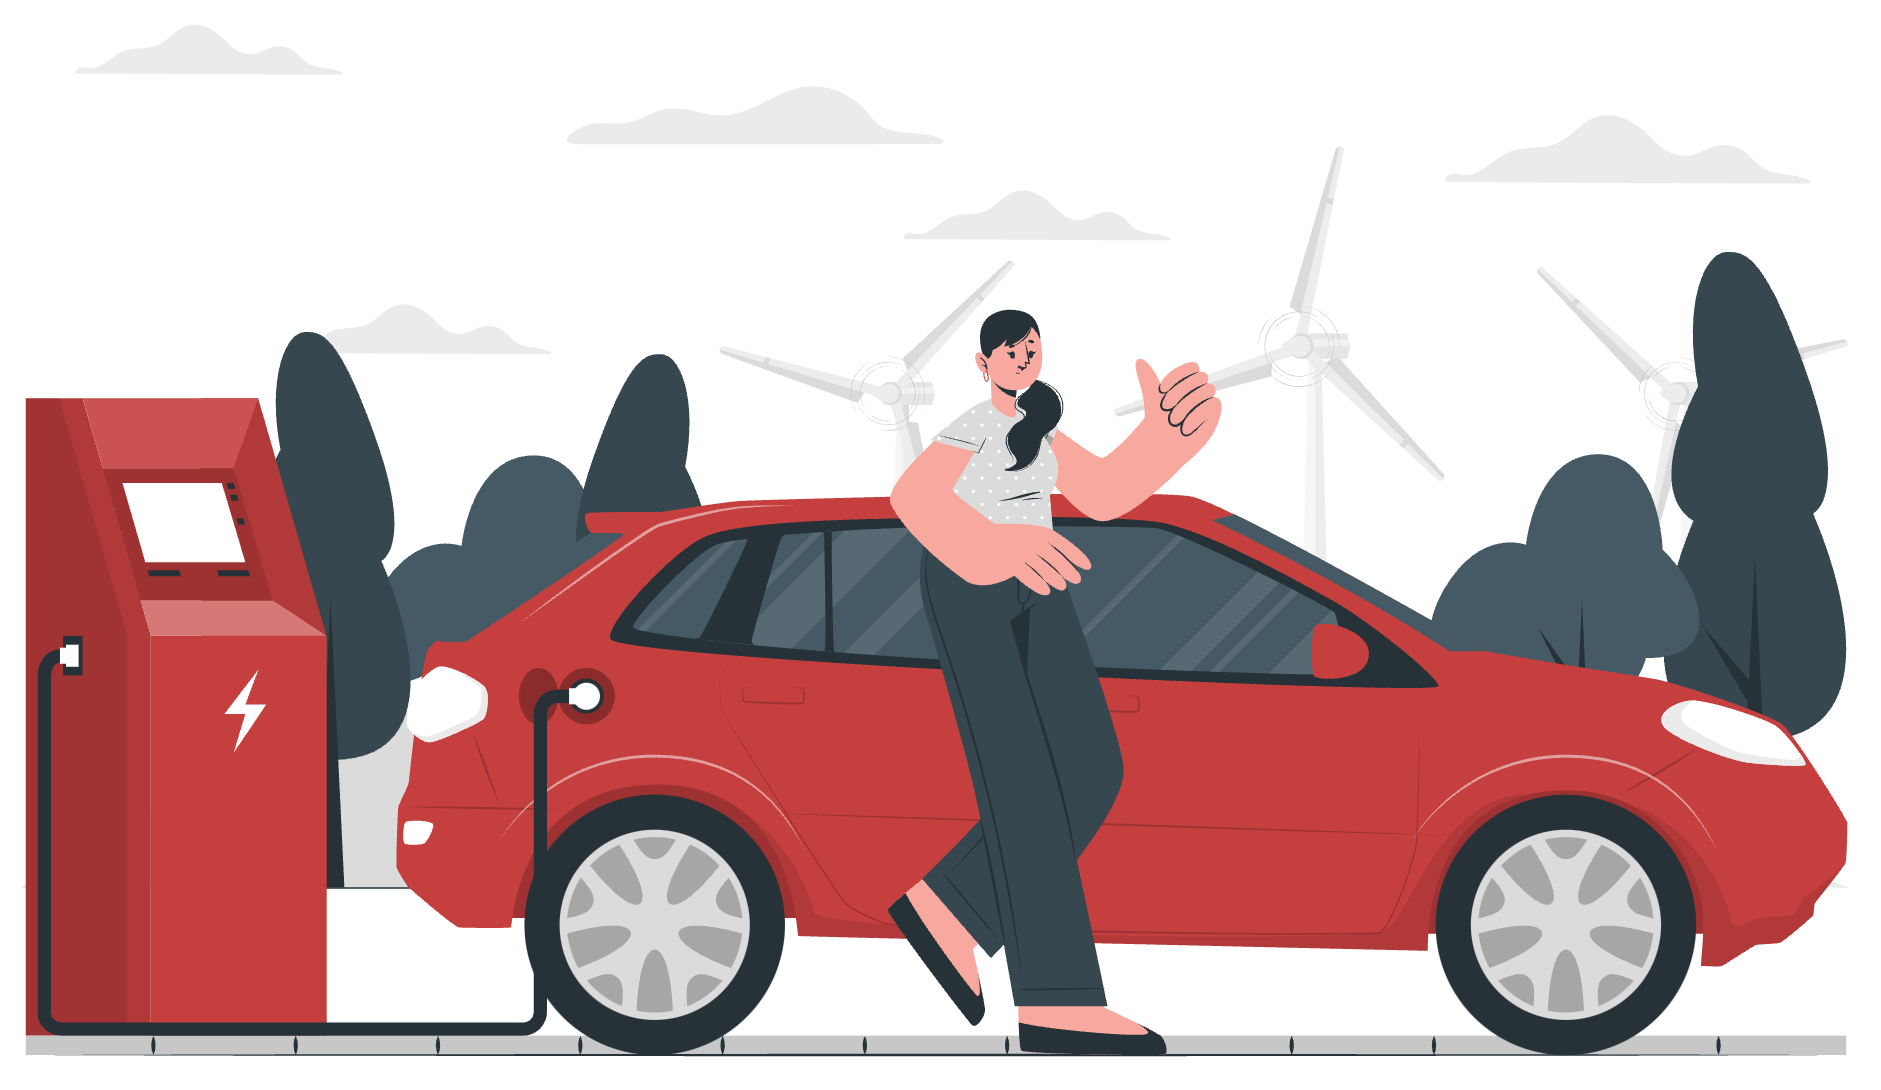
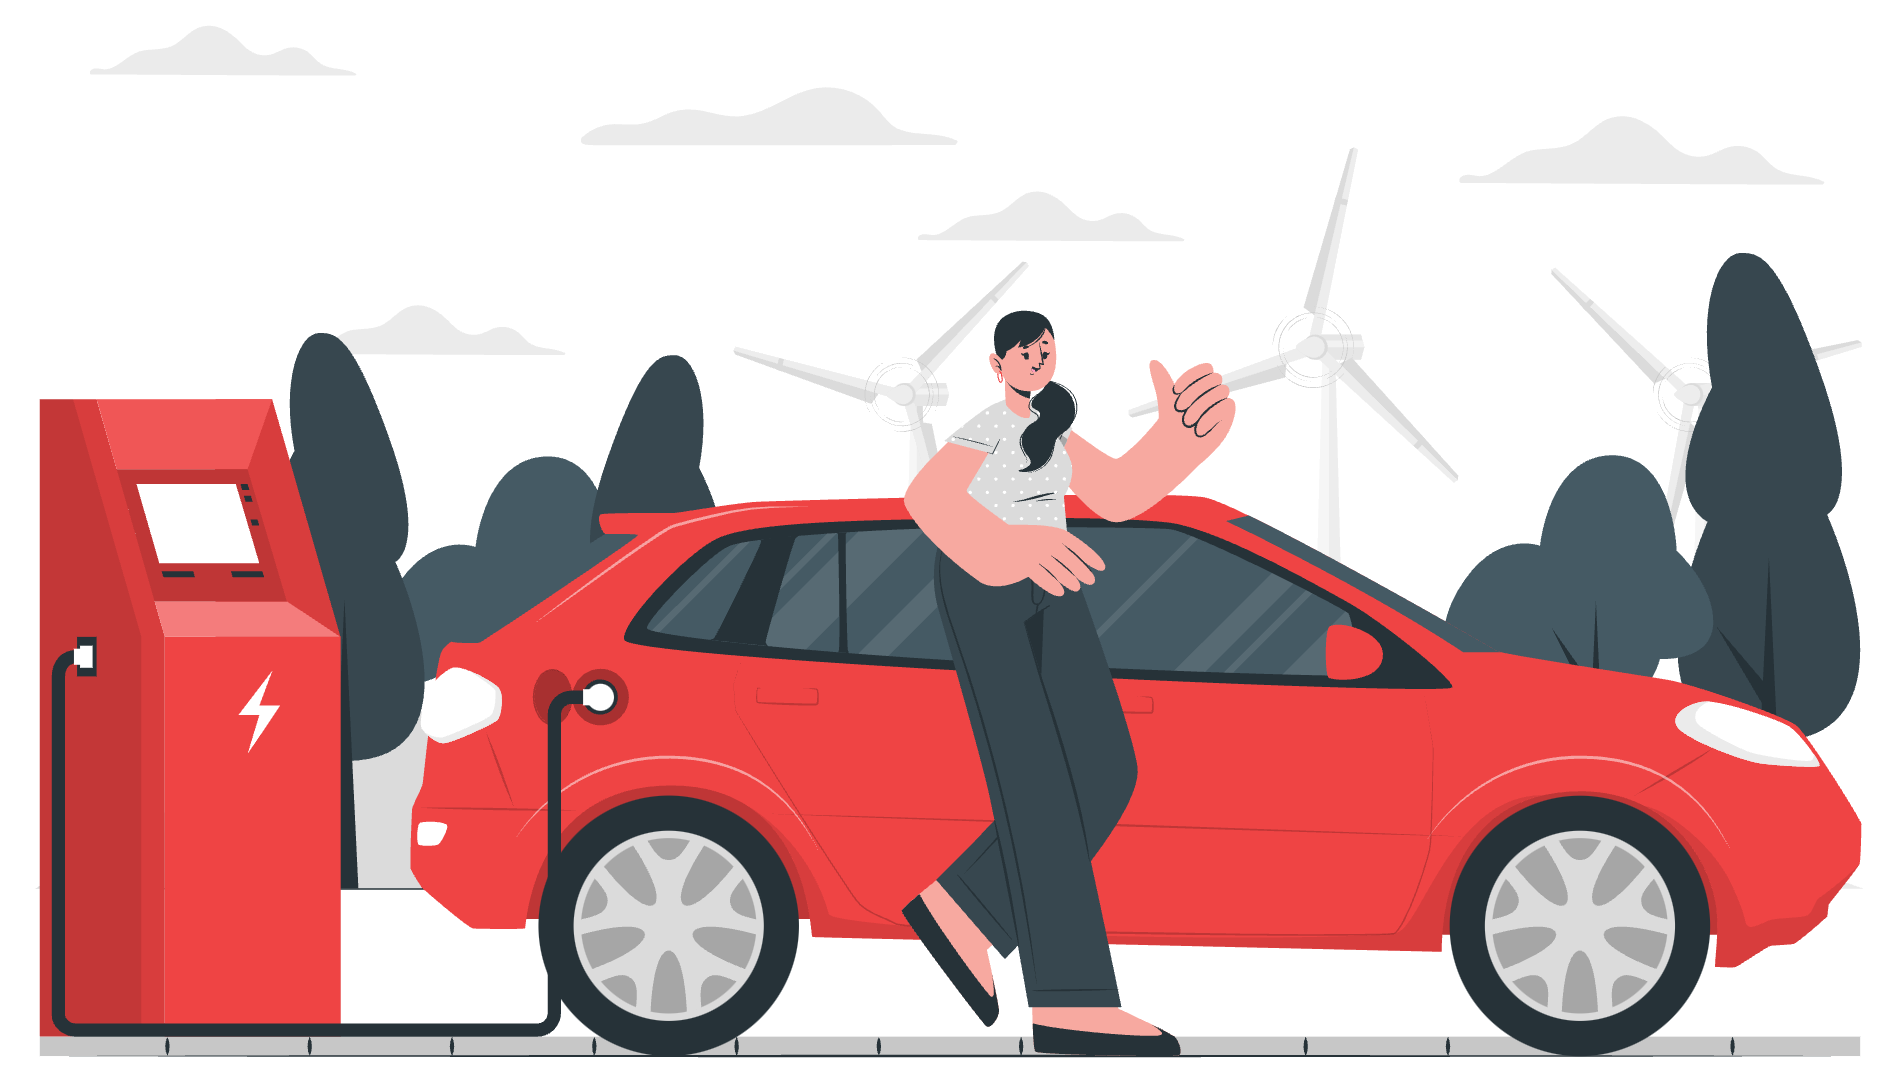
change app's main color to red

diff --git a/src/pages/Login/index.tsx b/src/pages/Login/index.tsx
@@ -2,7 +2,7 @@ import { Navigate } from "react-router-dom";
 import { Button, Text, Title } from "_/components";
 import { useAuth } from "_/contexts";
 import { FaGoogle } from "react-icons/fa"
-import Logo from "_/assets/CarDriving.png"
+import loginImg from "_/assets/login.png"
 import { ROUTE_PATHS } from "_/constants";
 
 export function Login(){
@@ -12,10 +12,10 @@ export function Login(){
 
     return (
         <div className="flex flex-col items-center p-5">
-            <img src={Logo} width={400} />
+            <img src={loginImg} width={400} />
             <Title size="3xl">Nete App</Title>
             <Text className="mb-5 text-center">Controle de uso do carro da Ivanete</Text>
-            <Button onClick={() => signInWithGoogle()} >
+            <Button onClick={() => signInWithGoogle()}>
                 <div className="flex items-center">
                     <FaGoogle color="white" className="mr-2"/> Sign in with Google
                 </div>

diff --git a/src/pages/Booking/index.tsx b/src/pages/Booking/index.tsx
@@ -1,4 +1,4 @@
-import { Text, Input, Button, Image, PageTemplate, Form } from "_/components";
+import { Text, Input, Button, PageTemplate, Form } from "_/components";
 import bookingImg from '_/assets/booking.png'
 import { useState } from "react";
 import { useAuth, useBooking } from "_/contexts";
@@ -37,7 +37,7 @@ export function Booking(){
             <Form onSubmit={onSubmit}>
                 <Input label="Data e hora" type={"datetime-local"} onChange={onDateChange} value={parseDateToLocaleString(date)}/>
                 <Input label="Duração (Horas)" type={"number"} onChange={onDurationChange} value={duration}/>
-                <Button size="full"  styleType="secondary" disabled={isCreatingBooking}>{isCreatingBooking ? "Criando..." : "Criar reserva"}</Button>
+                <Button size="full" disabled={isCreatingBooking}>{isCreatingBooking ? "Criando..." : "Criar reserva"}</Button>
             </Form>
         </PageTemplate>
 

diff --git a/src/pages/Checkin/index.tsx b/src/pages/Checkin/index.tsx
@@ -1,7 +1,7 @@
 import React, { useState } from 'react'
 import { Input, Title, Text, Button, PageTemplate, Form } from '_/components'
 import { useAuth, useCheckin } from '_/contexts'
-import carImg from "_/assets/CarApp.png"
+import checkinImg from "_/assets/checkin.png"
 import { useNavigate } from 'react-router-dom'
 import { ROUTE_PATHS } from '_/constants'
 
@@ -45,7 +45,7 @@ export function Checkin(){
 
     return(
         <PageTemplate
-            imagePath={carImg}
+            imagePath={checkinImg}
             pageTitle="Check-in"
         >
             <Text className="text-lg text-left lg:mb-3 mx-3">
@@ -67,7 +67,6 @@ export function Checkin(){
 
                 <Button
                     size="full"
-                    styleType="secondary"
                     disabled={isCreatingCheckin}>
                         { isCreatingCheckin ? 'Registrando...' : 'Registrar'}
                 </Button>
